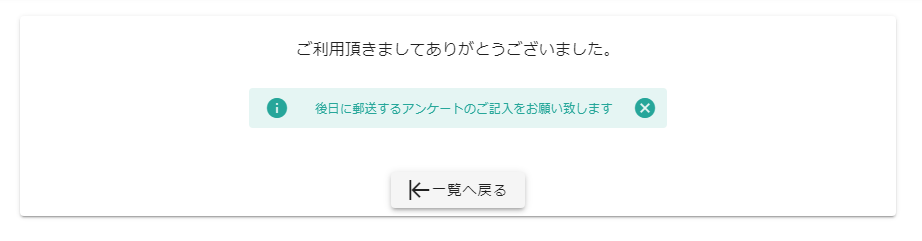
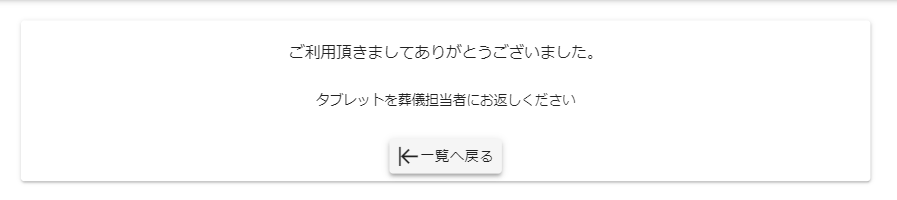
add #32 アンケート機能について加筆

diff --git a/docs/funeral_flow/seikyu.md b/docs/funeral_flow/seikyu.md
@@ -64,7 +64,19 @@
 2. 請求書のお渡し方法を選択します.  
  ![請求書お渡し方法](../asset/image/funeral_flow/seikyu/seikyu_step6.png)
 
-## 4. 完了    
+## 4. アンケートの回答
+1. アンケート回答の可否を選択します.  
+   **[回答]**ボタンを選択するとアンケートフォームへ遷移します.  
+  ![アンケート回答可否](../asset/image/funeral_flow/seikyu/customer_review_1.png)  
+ **[回答拒否]**ボタンを選択した場合は、回答できない理由を選択し、**[決定]** ボタンを選択してください.
+ アンケートフォームをスキップして完了画面へ遷移します.  
+ **[クレーム発生のため]**を選択した場合は、弊社コールセンターまでご連絡ください.
+ ![アンケート回答拒否理由](../asset/image/funeral_flow/seikyu/customer_review_2.png)  
+2. お客様にタブレットを渡し、アンケートの回答を行っていただきます.  
+  入力が完了したら、 **[決定]** ボタンを選択してください. 問1～問4までは入力必須です.  
+  ![アンケートフォーム上段](../asset/image/funeral_flow/seikyu/customer_review_3.png)
+  ![アンケートフォーム下段](../asset/image/funeral_flow/seikyu/customer_review_4.png)
+## 5. 完了    
  ![請求完了](../asset/image/funeral_flow/seikyu/seikyu_step7.png)  
  以上で葬儀の施行管理の操作が終わりました.  
  **[一覧へ戻る]**ボタンより施行一覧に戻りますと、**施行済案件**に表示されています.
